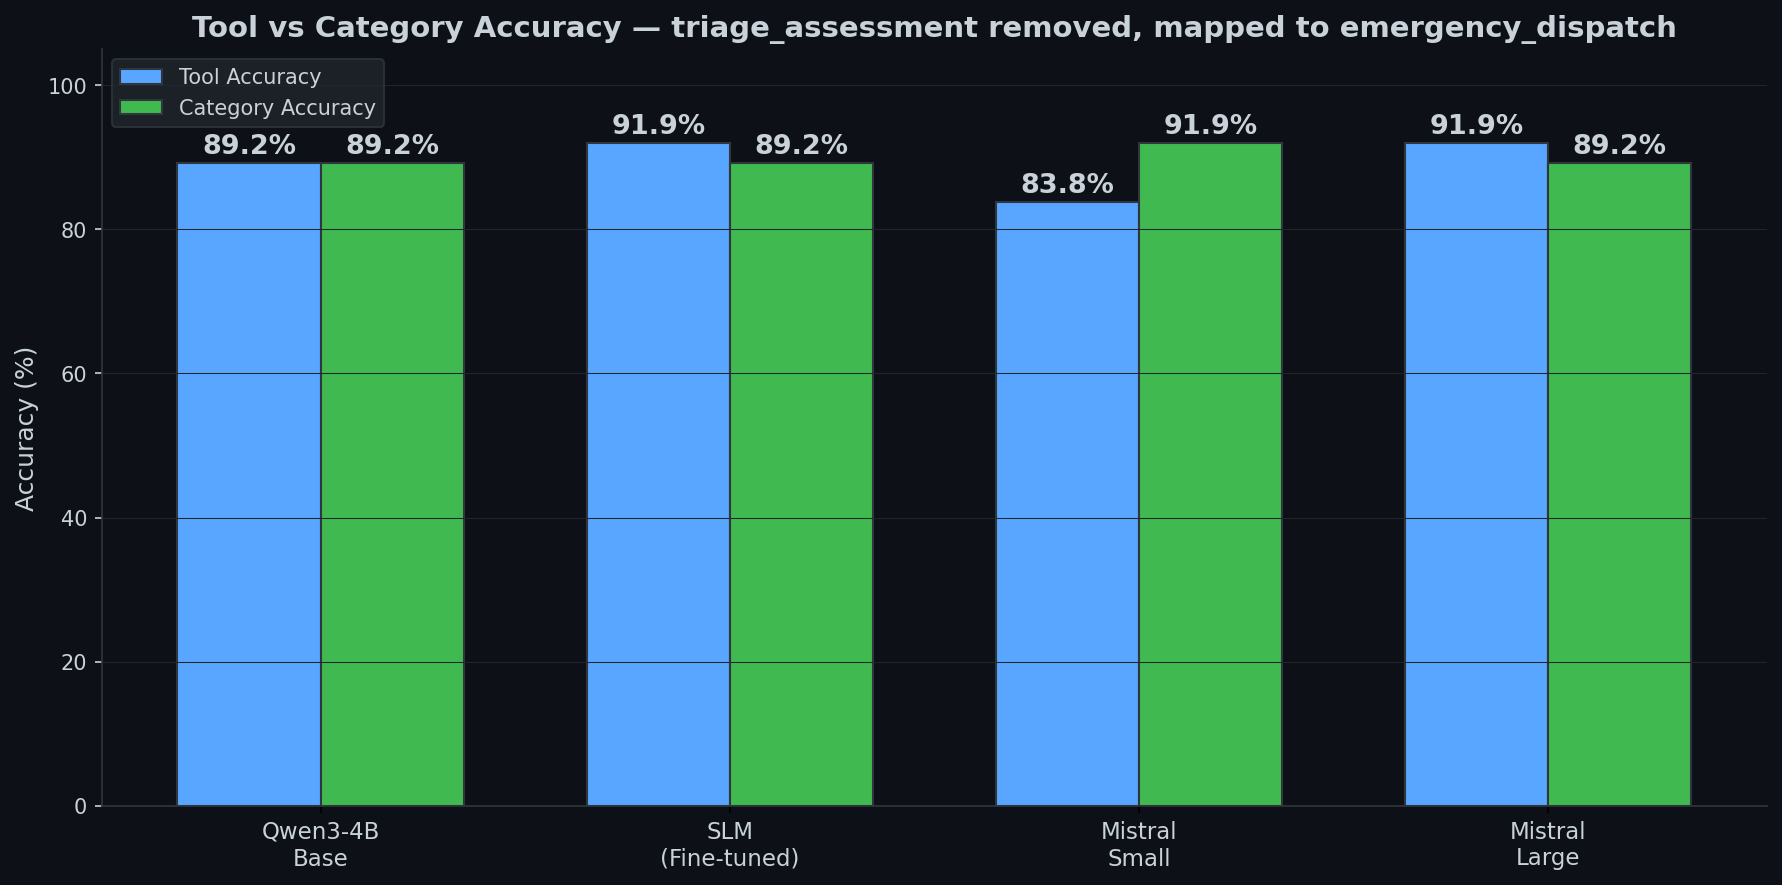
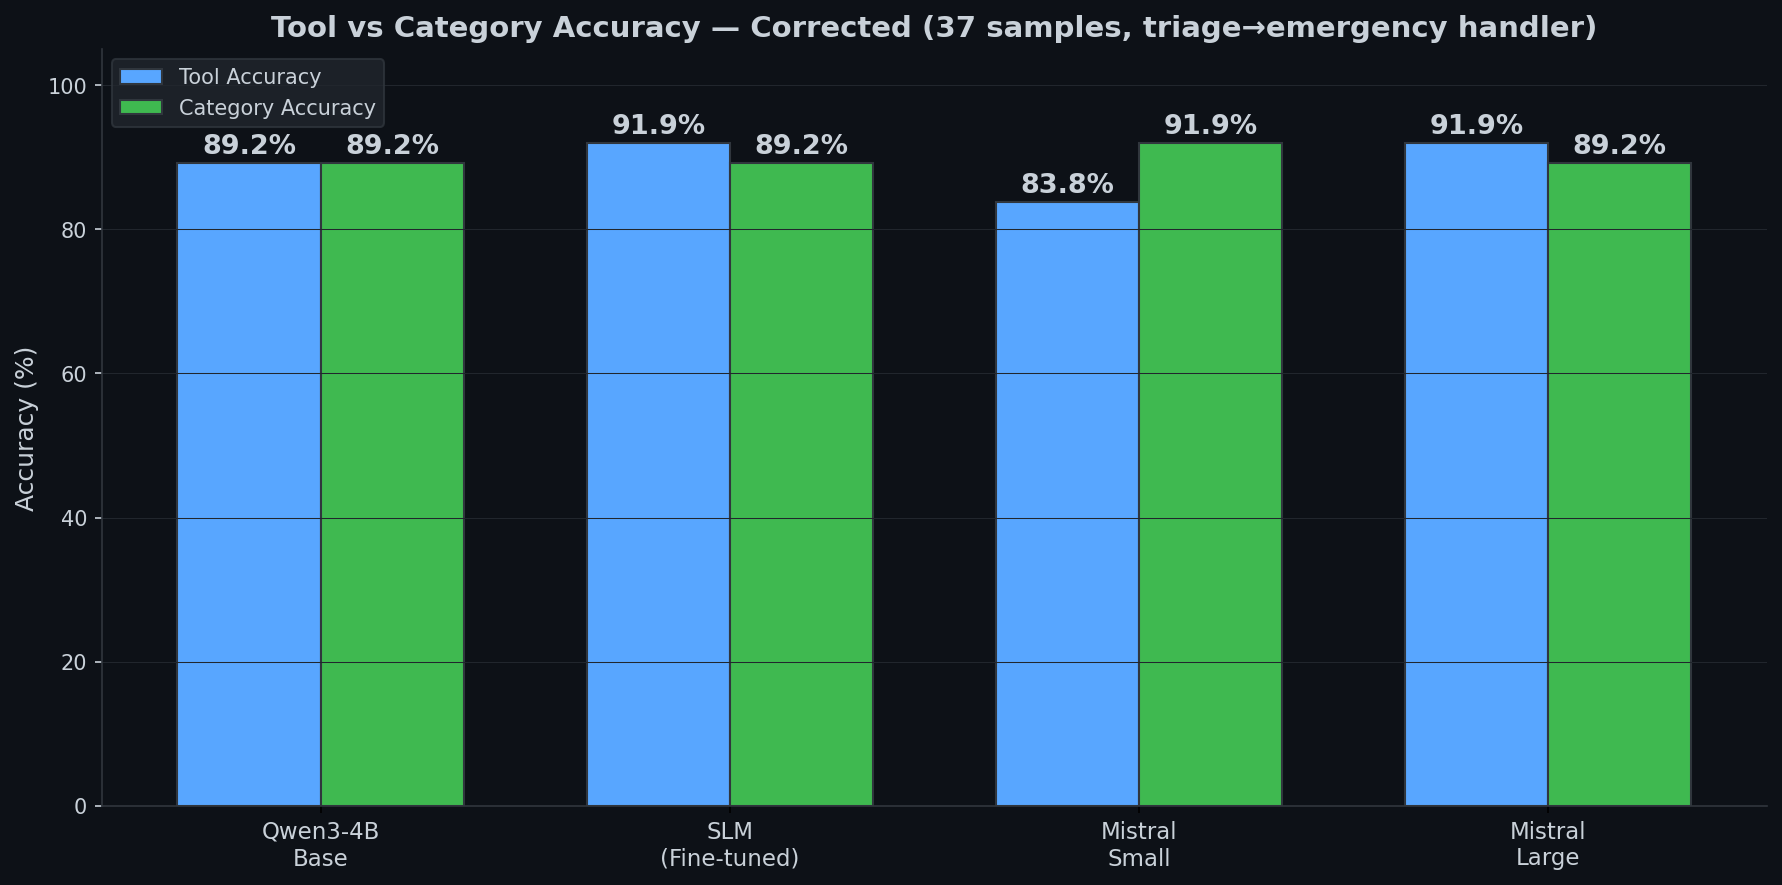
eval: add original accuracy chart with triage_assessment annotation
- eval_accuracy_original.png: 40-sample results with annotation
  'Fine-tuning hurt due to triage_assessment ambiguousness'
- eval_accuracy_comparison.png: corrected 37-sample results
- eval_result.md: uses original chart for original section

Changed region(s): [[0.0926, 0.0, 0.9259, 0.061]]

diff --git a/gen_eval_charts.py b/gen_eval_charts.py
@@ -14,7 +14,51 @@ purple = '#bc8cff'
 models = ['Qwen3-4B\nBase', 'SLM\n(Fine-tuned)', 'Mistral\nSmall', 'Mistral\nLarge']
 colors = [green, yellow, blue, purple]
 
-# ── 1. Overall Accuracy (no triage) ──
+# ── 1. Overall Accuracy (original, 40 samples) ──
+fig, ax = plt.subplots(figsize=(12, 6))
+fig.patch.set_facecolor(bg)
+ax.set_facecolor(bg)
+
+tool_acc = [82.5, 60.0, 80.0, 87.5]
+cat_acc = [90.0, 87.5, 90.0, 90.0]
+x = np.arange(len(models))
+w = 0.35
+
+bars1 = ax.bar(x - w/2, tool_acc, w, label='Tool Accuracy', color=blue, edgecolor='#30363d')
+bars2 = ax.bar(x + w/2, cat_acc, w, label='Category Accuracy', color=green, edgecolor='#30363d')
+
+for bar in bars1:
+    ax.text(bar.get_x() + bar.get_width()/2, bar.get_height() + 0.5, f'{bar.get_height():.1f}%',
+            ha='center', va='bottom', color=fg, fontweight='bold', fontsize=13)
+for bar in bars2:
+    ax.text(bar.get_x() + bar.get_width()/2, bar.get_height() + 0.5, f'{bar.get_height():.1f}%',
+            ha='center', va='bottom', color=fg, fontweight='bold', fontsize=13)
+
+ax.set_ylim(0, 105)
+ax.set_xticks(x)
+ax.set_xticklabels(models, color=fg, fontsize=11)
+ax.tick_params(axis='y', colors=fg)
+ax.set_ylabel('Accuracy (%)', color=fg, fontsize=12)
+ax.set_title('Tool vs Category Accuracy — Original (40 samples, with triage_assessment)', color=fg, fontsize=14, fontweight='bold')
+ax.legend(facecolor='#21262d', edgecolor='#30363d', labelcolor=fg)
+ax.spines['bottom'].set_color('#30363d')
+ax.spines['left'].set_color('#30363d')
+ax.spines['top'].set_visible(False)
+ax.spines['right'].set_visible(False)
+ax.grid(axis='y', color='#21262d', linewidth=0.5)
+
+# Annotation: fine-tuning hurt
+ax.annotate('Fine-tuning hurt due to\ntriage_assessment ambiguousness',
+            xy=(1, 60), xytext=(1.9, 40),
+            arrowprops=dict(arrowstyle='->', color=red, lw=2),
+            color=red, fontweight='bold', fontsize=10, ha='center')
+
+plt.tight_layout()
+plt.savefig('visuals/eval_accuracy_original.png', dpi=150, facecolor=bg, bbox_inches='tight')
+plt.close()
+print('Created: eval_accuracy_original.png')
+
+# ── 1b. Overall Accuracy (corrected, 37 samples) ──
 fig, ax = plt.subplots(figsize=(12, 6))
 fig.patch.set_facecolor(bg)
 ax.set_facecolor(bg)
@@ -39,7 +83,7 @@ ax.set_xticks(x)
 ax.set_xticklabels(models, color=fg, fontsize=11)
 ax.tick_params(axis='y', colors=fg)
 ax.set_ylabel('Accuracy (%)', color=fg, fontsize=12)
-ax.set_title('Tool vs Category Accuracy — triage_assessment removed, mapped to emergency_dispatch', color=fg, fontsize=14, fontweight='bold')
+ax.set_title('Tool vs Category Accuracy — Corrected (37 samples, triage→emergency handler)', color=fg, fontsize=14, fontweight='bold')
 ax.legend(facecolor='#21262d', edgecolor='#30363d', labelcolor=fg)
 ax.spines['bottom'].set_color('#30363d')
 ax.spines['left'].set_color('#30363d')

diff --git a/eval_result.md b/eval_result.md
@@ -27,7 +27,7 @@ The fine-tuned SLM (60%) appears worse than the base model (82.5%) — but only 
 
 ## Original Results (40 samples, with triage_assessment)
 
-![Accuracy](visuals/eval_accuracy_comparison.png)
+![Accuracy (Original)](visuals/eval_accuracy_original.png)
 
 | Metric | Qwen3-4B Base | SLM (Fine-tuned) | Mistral Small | Mistral Large |
 |--------|:------------:|:----------------:|:------------:|:------------:|
